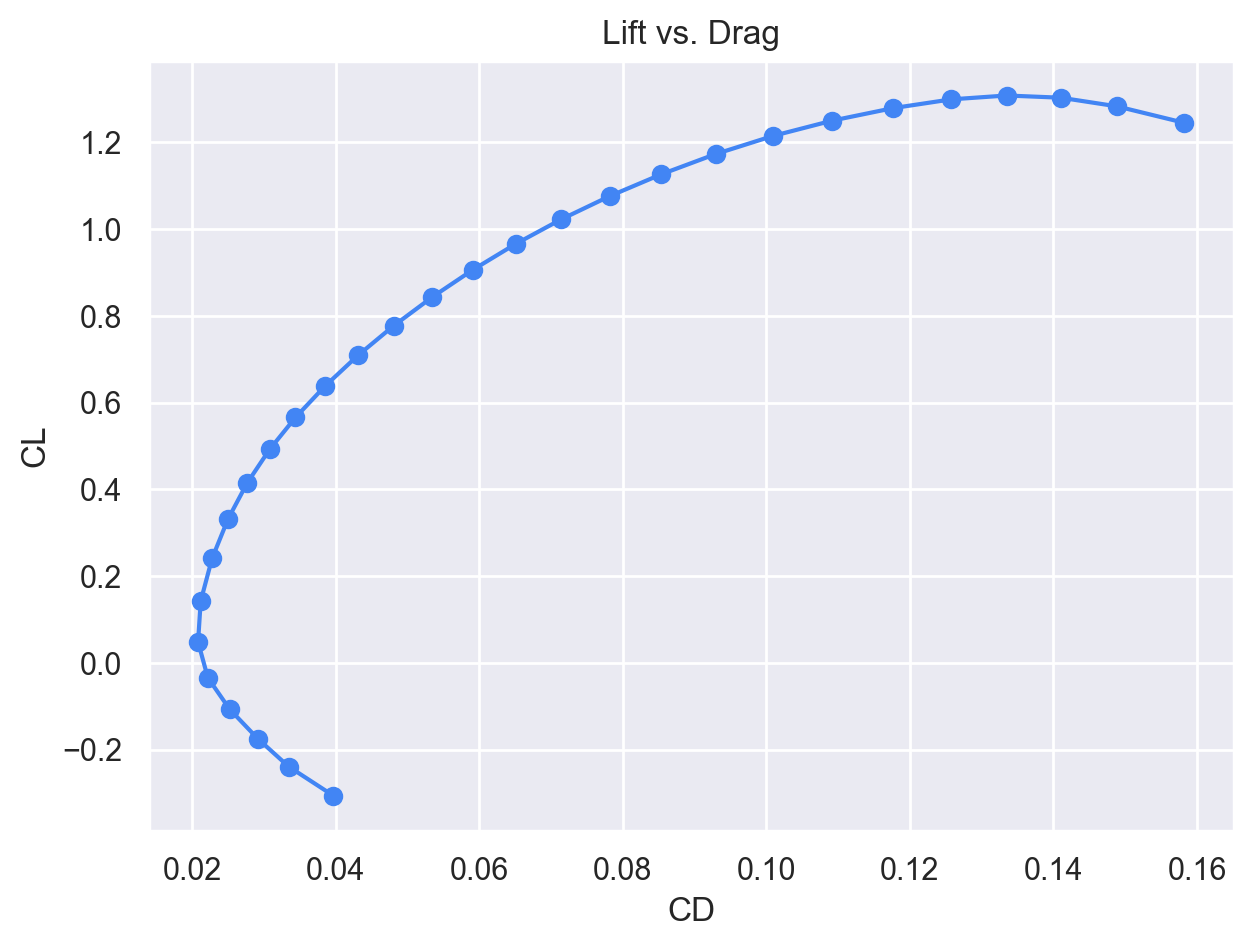
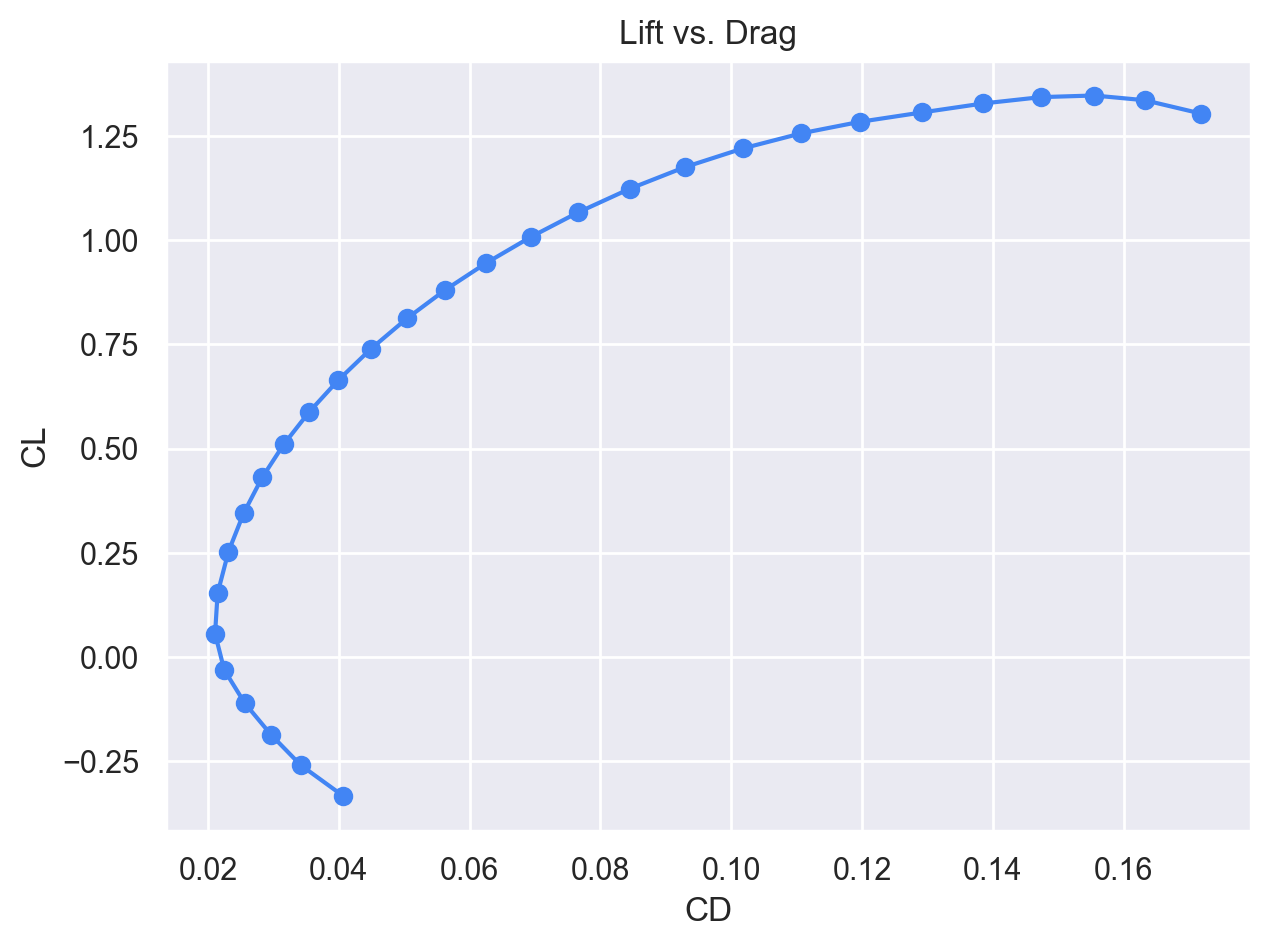
Correct tail issue

diff --git a/update_time.py b/update_time.py
@@ -1,4 +1,4 @@
-#! /usr/bin/env python
+#! /usr/bin/env python3
 
 import re
 import pathlib
@@ -22,7 +22,7 @@ for i, line in enumerate(lines):
         total_time += float(time)
 
 now = datetime.datetime.now()
-lines[total_line] = f"Total time spent as of {now.strftime("%B %d")}: {int(total_time)} hours and {int(round((total_time - int(total_time)) * 60))} minutes\n\n"
+lines[total_line] = f"Total time spent as of {now.strftime("%B %d")}: {int(total_time)} hours and {int(round((total_time - int(total_time)) * 60))} minutes\n"
 with open(journal, "w") as f:
     f.write("".join(lines))
 

diff --git a/design/design.md b/design/design.md
@@ -131,3 +131,55 @@ plt.show()
 ```
 
 ![](design_files/figure-commonmark/cell-7-output-1.png)
+
+### Trim Curve
+
+``` python
+alphas = np.linspace(-2, 10, 15)
+cms = []
+
+for alpha in alphas:
+    op = asb.OperatingPoint(
+        velocity=s(op_point.velocity),
+        alpha=alpha
+    )
+
+    aero = asb.AeroBuildup(
+        airplane=airplane_sol,
+        op_point=op,
+        xyz_ref=s(mass_tot.xyz_cg)
+    ).run_with_stability_derivatives(alpha=True)
+    cms.append(aero["Cm"])
+
+plt.figure()
+plt.plot(alphas, cms)
+plt.axhline(0, color="black", linestyle="--")
+plt.xlabel("Angle of Attack [deg]")
+plt.ylabel("Pitching Moment Coefficient (Cm)")
+plt.title("Trim Curve: Cm vs Alpha")
+plt.grid(True)
+plt.show()
+
+print(f"α {" " * 5} Cm")
+for a, c in zip(alphas, cms):
+    print(f"{a:0.2f} {" " * 5} {c[0]:0.5f}")
+```
+
+![](design_files/figure-commonmark/cell-8-output-1.png)
+
+    α       Cm
+    -2.00       0.01375
+    -1.14       0.00889
+    -0.29       0.01308
+    0.57       0.01725
+    1.43       0.01622
+    2.29       0.00497
+    3.14       -0.02061
+    4.00       -0.05589
+    4.86       -0.08778
+    5.71       -0.11108
+    6.57       -0.12860
+    7.43       -0.14435
+    8.29       -0.15737
+    9.14       -0.16057
+    10.00       -0.14215

diff --git a/JOURNAL.md b/JOURNAL.md
@@ -7,9 +7,7 @@ created_at: "2025-07-24"
 
 # UAV Project
 
-Total time spent as of July 25: 6 hours and 30 minutes
-
-
+Total time spent as of July 26: 7 hours and 15 minutes
 
 ## July 24 &mdash; Project Start
 (I am using this to store my research, so it's a little chaotic)
@@ -38,3 +36,9 @@ I found a cool python tool called AeroSandbox that enables users to design and o
 Link to [the current design document](https://github.com/gideongrinberg/plane-project/blob/main/design/design.md).
 
 Time spent: 4hr (roughly 1 hour on researching and 3 hours tweaking the ASB design)
+
+## July 26 &mdash; Continued Design Work
+
+I found an issue in the design of the tail that would have introduced instability and cause the aircraft to pitch uncontrollably up in flight. By changing the dimensions of the tail, I was able to ensure that the aircraft will be more stable in flight. In particular, it should be stable in cruise, although it is still unstable around very low angles of attack, so I will need to be careful while landing it.
+
+Time spent: 0.75hr
